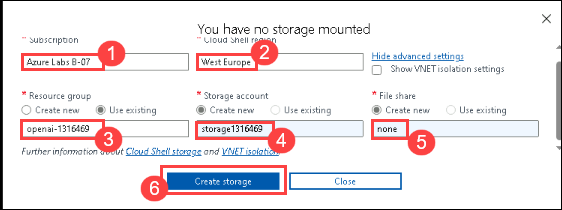
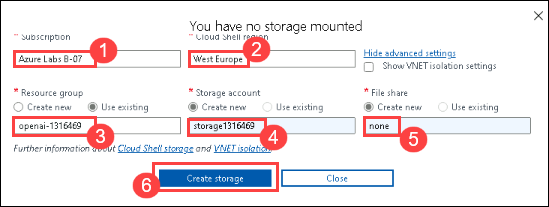
updated

diff --git a/Instructions/Labs/hol-integrate-openai-with-app-lab2.md b/Instructions/Labs/hol-integrate-openai-with-app-lab2.md
@@ -20,25 +20,21 @@ In this lab, you will complete the following tasks:
 
 To use the Azure OpenAI API, you must first deploy a model to use through the **Azure OpenAI Studio**. Once deployed, we will reference that model in our app.
 
-1. In the **Azure portal**, search for **OpenAI** and select **Azure OpenAI**.
+1. Open a new tab, and navigate to the **Azure portal** by using **https://portal.azure.com/#home**, search for **OpenAI** and select **Azure OpenAI**.
 
    ![](../media/openai8.png)
 
-2. On **Azure AI Services | Azure OpenAI** blade, select **OpenAI-Lab02-<inject key="DeploymentID" enableCopy="false"></inject>**
+2. On **Azure AI Services | Azure OpenAI** blade, select **OpenAI-Lab01-<inject key="DeploymentID" enableCopy="false"></inject>**
 
-   ![](../media/OpenAI_select.png)
+   ![](../media/azureaiservices.png)
 
 3. In the Azure OpenAI resource pane, click on **Go to Azure OpenAI Studio** it will navigate to **Azure AI Studio**.
 
-   ![](../media/openai_studio1.png)
+   ![](../media/gotoresources.png)
 
-4. In **Welcome to Azure OpenAI Service** page, click on **Create new deployment**.
-
-   ![](../media/openai-lab01_t2_s2.png "Create a new deployment")
-
-5. In the **Deployments** page, click on **+ Create new deployment**.
+5. In the **Deployments (1)** page, click on **+ Create new deployment (2)**.
     
-   ![](../media/openai-lab01_t2_s3.png "Create a new deployment")
+   ![](../media/createanewdeployment.png "Create a new deployment")
 
 7. Within the **Deploy model** pop-up interface, enter the following details:
     - **Select a Model**: gpt-35-turbo-16k (1)
@@ -46,12 +42,17 @@ To use the Azure OpenAI API, you must first deploy a model to use through the **
        >**Note** : if the 16k model isn't available, choose **gpt-35-turbo**
        
     - **Model version**: Auto-update to default (2)
+    
     - **Deployment type**: Standard (3)
+    
     - **Deployment name**: text-turbo (4)
+    
     - Click on **Advanced Settings** (5)
     - **Tokens per Minute Rate Limit (thousands)**: 10K (6)
+    
     - **Enable dynamic quota**: Enabled (7)
-    - Click on **Create** (7)
+    
+    - Click on **Create** (8)
   
       ![](../media/x991.png)
 
@@ -61,35 +62,44 @@ To use the Azure OpenAI API, you must first deploy a model to use through the **
    
    > **Note**: Each Azure OpenAI model is optimized for a different balance of capabilities and performance. We'll use the **3.5 Turbo** model series in the **GPT-3** model family in this exercise, which is highly capable of language understanding. This exercise only uses a single model, however, deployment and usage of other models you deploy will work in the same way.
 
-#### Validation
+    <validation step="4799e712-2f03-4a88-9456-fca39aea25d0" />
 
-<validation step="4799e712-2f03-4a88-9456-fca39aea25d0" />
+    > **Congratulations** on completing the task! Now, it's time to validate it. Here are the steps:
+       
+      - If you receive a success message, you can proceed to the next task.
+      - If not, carefully read the error message and retry the step, following the instructions in the lab guide.
+      - If you need any assistance, please contact us at labs-support@spektrasystems.com. We are available 24/7 to help you out.
 
 ### Task 2: Set up an application in Cloud Shell
 
 To show how to integrate with an Azure OpenAI model, we'll use a short command-line application that runs in Cloud Shell on Azure. Open up a new browser tab to work with Cloud Shell.
 
-1. In the [Azure portal](https://portal.azure.com?azure-portal=true), select the **[>_]** (*Cloud Shell*) button at the top of the page to the right of the search box. A Cloud Shell pane will open at the bottom of the portal.
+1. Open a new tab, and navigate to the [Azure portal](https://portal.azure.com?azure-portal=true), select the **[>_]** (*Cloud Shell*) button at the top of the page to the right of the search box. A Cloud Shell pane will open at the bottom of the portal.
 
-    ![Screenshot of starting Cloud Shell by clicking on the icon to the right of the top search box.](../media/cloudshell-launch-portal.png#lightbox)
+    ![Screenshot of starting Cloud Shell by clicking on the icon to the right of the top search box.](../media/cloudshell-launch-portal.png)
 
 2. The first time you open the Cloud Shell, you may be prompted to choose the type of shell you want to use (*Bash* or *PowerShell*). Select **Bash**. If you don't see this option, skip the step.  
 
-3. If you're prompted to create storage for your Cloud Shell, ensure your subscription is specified and then select **Advanced Settings**.
+3. If you're prompted to create storage for your Cloud Shell, ensure your subscription is specified and then select **Show advanced Settings**.
 
    ![](../media/openai-labs_createstoragepane.png "Create storage advanced settings")
 
 4. Within the **Advanced settings** pane, enter the following details:
     - **Subscription**: Default- Choose the only existing subscription assigned for this lab (1).
+    
     - **CloudShell region**: <inject key="Region" enableCopy="false" /> (2)
+    
     - **Resource group**: Select **Use existing**.(3)
       - openai-<inject key="DeploymentID" enableCopy="false"></inject>
+    
     - **Storage account**: Select **Create new**.(4)
       - storage<inject key="DeploymentID" enableCopy="false"></inject>
+    
     - **File share**: Create a new file share named **none** (5)
-    - Click **Create Storage** (6)
+    
+    - Click **Create storage** (6)
 
-    ![](../media/storageaccreate2.png "Create storage advanced settings")
+        ![](../media/storageaccreate2.png "Create storage advanced settings")
 
 5. Make sure the type of shell indicated on the top left of the Cloud Shell pane is switched to *Bash*. If it's *PowerShell*, switch to *Bash* by using the drop-down menu.
 
@@ -108,17 +118,21 @@ To show how to integrate with an Azure OpenAI model, we'll use a short command-l
    cd azure-openai/Labfiles/02-azure-openai-api
     ```
 
-Applications for both C# and Python have been provided, as well as a sample text file you'll use to test the summarization. Both apps feature the same functionality.
+    >**Note:** Applications for both C# and Python have been provided, as well as a sample text file you'll use to test the summarization. Both apps feature the same functionality.
 
-Open the built-in code editor, and observe the text file that you'll be summarizing with your model located at `text-files/sample-text.txt`. Use the following command to open the lab files in the code editor.
+9. Open the built-in code editor, and observe the text file that you'll be summarizing with your model located at `text-files/sample-text.txt`. Use the following command to open the lab files in the code editor.
 
-```bash
-code .
-```
+    ```bash
+    code .
+    ```
 
-#### Validation
+    <validation step="2e8dadd1-f827-4597-8d99-c814ec85fbab" />
 
-<validation step="2e8dadd1-f827-4597-8d99-c814ec85fbab" />
+    > **Congratulations** on completing the task! Now, it's time to validate it. Here are the steps:
+       
+      - If you receive a success message, you can proceed to the next task.
+      - If not, carefully read the error message and retry the step, following the instructions in the lab guide.
+      - If you need any assistance, please contact us at labs-support@spektrasystems.com. We are available 24/7 to help you out.
 
 ### Task 3: Configure your application
 
@@ -126,14 +140,21 @@ For this exercise, you'll complete some key parts of the application to enable u
 
 1. In the code editor, expand the **CSharp** or **Python** folder, depending on your language preference.
 
-2. Open the configuration file for your language
+1. Open the configuration file for your language
 
     - C#: `appsettings.json`
     - Python: `.env`
-    
-3. Update the configuration values to include the **endpoint** and **key** from the Azure OpenAI resource you created, as well as the model name that you deployed, `text-turbo`. Then save the file by right-clicking on the file from the left pane and hit **Save**
 
-4. Navigate to the folder for your preferred language and install the necessary packages
+1. Update the configuration values to include:
+    
+    - The  **endpoint** and a **key** from the Azure OpenAI resource you created (Which you copied in the previous task alternatively it is available on the **Keys and Endpoint** page for your Azure OpenAI resource in the Azure portal)
+    
+    - The **deployment name** you specified for your model deployment (available in the **Deployments** page in Azure OpenAI Studio that is **text-turbo**).
+
+    - Press **Ctrl + S** on your keyboard to save the file.
+
+
+1. Navigate to the folder for your preferred language and install the necessary packages
 
     **C#** : 
 
@@ -150,7 +171,7 @@ For this exercise, you'll complete some key parts of the application to enable u
     pip install openai==1.13.3
     ```
 
-5. Navigate to your preferred language folder, select the code file, and add the necessary libraries.
+1. Navigate to your preferred language folder, select the code file, and add the necessary libraries.
 
     **C#**: Program.cs
 
@@ -166,7 +187,9 @@ For this exercise, you'll complete some key parts of the application to enable u
     from openai import AzureOpenAI
     ```
 
-6.  In the application code for your language, replace the comment ***Initialize the Azure OpenAI client...*** with the following code to initialize the client and define our system message.
+1. Press **Ctrl + S** on your keyboard to save the file.
+
+1.  In the application code for your language, replace the comment ***Initialize the Azure OpenAI client...*** with the following code to initialize the client and define our system message.
 
     **C#**: Program.cs
 
@@ -197,8 +220,10 @@ For this exercise, you'll complete some key parts of the application to enable u
     ```
 
       >**Note**: Make sure to indent the code by eliminating any extra white spaces after pasting it into the code editor.
+
+1. Press **Ctrl + S** on your keyboard to save the file.
     
-7. Replace the comment ***Add code to send request...*** with the necessary code for building the request; specifying the various parameters for your model such as `messages` and `temperature`.
+1. Replace the comment ***Add code to send request...*** with the necessary code for building the request; specifying the various parameters for your model such as `messages` and `temperature`.
 
     **C#**: Program.cs
 
@@ -245,7 +270,7 @@ For this exercise, you'll complete some key parts of the application to enable u
     print("Response: " + generated_text + "\n")
     ```
 
-7. To save the changes made to the file, right-click on the file from the left pane in the code window and hit **Save**
+1. Press **Ctrl + S** on your keyboard to save the file.
 
    >**Note:** Make sure to indent the code by eliminating any extra white spaces after pasting it into the code editor.
 

diff --git a/Instructions/Labs/hol-get-started-with-openai-lab1.md b/Instructions/Labs/hol-get-started-with-openai-lab1.md
@@ -23,7 +23,7 @@ Before you can use Azure OpenAI models, you must provision an Azure OpenAI resou
 
    ![](../media/openai8.png)
 
-2. On **Azure AI Services | Azure OpenAI** blade, click on **Create**.
+2. On **Azure AI Services | Azure OpenAI** blade, click on **+ Create**.
 
    ![](../media/openai_create1.png)
 
@@ -35,15 +35,27 @@ Before you can use Azure OpenAI models, you must provision an Azure OpenAI resou
     - **Name**: OpenAI-Lab01-<inject key="DeploymentID" enableCopy="false"></inject>
     - **Pricing tier**: Standard S0
   
-   ![](../media/openai-lab01_01.png "Create Azure OpenAI resource")
+      ![](../media/openai-lab01_01.png "Create Azure OpenAI resource")
 
 4. Click on **Next** twice and click on **Create**.
 
 5. Wait for deployment to complete. Then go to the deployed Azure OpenAI resource in the Azure portal.
 
-#### Validation
+6. To capture the Keys and Endpoints values, on **openai-<inject key="DeploymentID" enableCopy="false"></inject>** blade:
+      - Select **Keys and Endpoint (1)** under **Resource Management**.
+      - Click on **Show Keys (2)**.
+      - Copy **Key 1 (3)** and ensure to paste it in a text editor such as notepad for future reference.
+      - Finally copy the **Endpoint (4)** API URL by clicking on copy to clipboard. Paste it in a text editor such as notepad for later use.
 
-<validation step="4b6b5a36-2650-4f80-a408-879c57cf61a2" />
+        ![](../media/keysendpoint.png "Keys and Endpoints")
+
+   <validation step="4b6b5a36-2650-4f80-a408-879c57cf61a2" />
+
+   > **Congratulations** on completing the task! Now, it's time to validate it. Here are the steps:
+       
+      - If you receive a success message, you can proceed to the next task.
+      - If not, carefully read the error message and retry the step, following the instructions in the lab guide.
+      - If you need any assistance, please contact us at labs-support@spektrasystems.com. We are available 24/7 to help you out.
 
 ### Task 2: Deploy a model
 
@@ -53,13 +65,13 @@ Azure OpenAI provides a web-based portal named **Azure OpenAI Studio**, that you
 
    ![](../media/openai8.png)
 
-2. On **Azure AI Services | Azure OpenAI** blade, select **OpenAI-Lab01-<inject key="Deployment-id" enableCopy="false"></inject>**
+2. On **Azure AI Services | Azure OpenAI** blade, select **OpenAI-Lab01-<inject key="DeploymentID" enableCopy="false"></inject>**
 
    ![](../media/OpenAI_select.png)
 
 3. In the Azure OpenAI resource pane, click on **Go to Azure OpenAI Studio** it will navaigate to **Azure AI Studio**.
 
-   ![](../media/openai_studio.png)
+   ![](../media/gotoresources.png)
    
 4. In **Welcome to Azure OpenAI Service** page, click on **Create new deployment**.
 
@@ -87,25 +99,30 @@ Azure OpenAI provides a web-based portal named **Azure OpenAI Studio**, that you
 7. This will deploy a model which you will be playing around with as you proceed.
 
    > **Note**: You can ignore any error related to assignment of roles to view the quota limits. 
+   
    > **Note**: Azure OpenAI includes multiple models, each optimized for a different balance of capabilities and performance. In this exercise, you'll use the **GPT-35-Turbo** model, which is a good general model for summarizing and generating natural language and code. For more information about the available models in Azure OpenAI, see [Models](https://learn.microsoft.com/azure/cognitive-services/openai/concepts/models) in the Azure OpenAI documentation.
 
-#### Validation
+   <validation step="d9a504d6-e0be-4fa9-a4ed-6ead18a10e03" />
 
-<validation step="d9a504d6-e0be-4fa9-a4ed-6ead18a10e03" />
+   > **Congratulations** on completing the task! Now, it's time to validate it. Here are the steps:
+       
+      - If you receive a success message, you can proceed to the next task.
+      - If not, carefully read the error message and retry the step, following the instructions in the lab guide.
+      - If you need any assistance, please contact us at labs-support@spektrasystems.com. We are available 24/7 to help you out.
 
 ### Task 3: Explore a model in the Completions playground
 
 *Playgrounds* are useful interfaces in Azure OpenAI Studio that you can use to experiment with your deployed models without needing to develop your own client application.
 
 1. In Azure OpenAI Studio, in the left pane under **Playground**, select **Completions**.
+
 2. In the **Completions** page, ensure your **my-gpt-model** deployment is selected and then in the **Examples** list, select **Generate a quiz**.
 
-    The summarize text sample consists of a *prompt* that provides some text to tell the model what kind of response is required and include some contextual information.
+   >**Note:** The summarize text sample consists of a *prompt* that provides some text to tell the model what kind of response is required and include some contextual information.
 
 3. At the bottom of the page, note the number of *tokens* detected in the text. Tokens are the basic units of a prompt - essentially words or word-parts in the text.
-4. Use the **Generate** button to submit the prompt to the model and retrieve a response.
 
-    The response consists of a quiz based on the example in the prompt.
+4. Use the **Generate** button to submit the prompt to the model and retrieve a response. The response consists of a quiz based on the example in the prompt.
 
     >**Note**: You can use the **Regenerate** button to resubmit the prompt(new changes have been made), and note that the response may vary 
     from the original one. A generative AI model can produce new language each time it's called.
@@ -117,17 +134,21 @@ Azure OpenAI provides a web-based portal named **Azure OpenAI Studio**, that you
 The *Chat* playground provides a chatbot interface for GPT 3.5 and higher models. It uses the *ChatCompletions* API rather than the older *Completions* API.
 
 1. In the **Playground** section, select the **Chat** page, and ensure that the **my-gpt-model** model is selected in the configuration pane.
+
 2. In the **Setup** section, in the **System message** box, replace the current text with the following statement: `The system is an AI teacher that helps people learn about AI`.
 
-3. Below the **System message** box, click on **+Add**, and enter the following message and response in the designated boxes:
+3. Below the **System message** box, click on **+ Add**, and enter the following message and response in the designated boxes:
 
     - **User**: `What are different types of artificial intelligence?`
+    
     - **Assistant**: `There are three main types of artificial intelligence: Narrow or Weak AI (such as virtual assistants like Siri or Alexa, image recognition software, and spam filters), General or Strong AI (AI designed to be as intelligent as a human being. This type of AI does not currently exist and is purely theoretical), and Artificial Superintelligence (AI that is more intelligent than any human being and can perform tasks that are beyond human comprehension. This type of AI is also purely theoretical and has not yet been developed).`
 
-    > **Note**: Few-shot examples are used to provide the model with examples of the types of responses that are expected. The model will attempt to reflect the tone and style of the examples in its own responses.
+      >**Note**: Few-shot examples are used to provide the model with examples of the types of responses that are expected. The model will attempt to reflect the tone and style of the examples in its own responses.
 
 4. Save the changes by clicking on **Apply Changes** and subsequently click on **Continue** to start a new session and set the behavioral context of the chat system.
+
 5. In the query box at the bottom of the page, enter the text `What is artificial intelligence?`
+
 6. Use the **Send** button to submit the message and view the response.
 
     > **Note**: You may receive a response that the API deployment is not yet ready. If so, wait for a few minutes and try again.
@@ -170,9 +191,12 @@ You can use the prompt and parameters to maximize the likelihood of generating t
 
 In addition to generating natural language responses, you can use GPT models to generate code.
 
-1. In the **Setup** pane, select the **Empty Example** template to reset the system message.
-2. Enter the system message: `You are a Python developer.` and save the changes by clicking on Apply Changes.
+1. In the **Setup** pane, select the **Empty Example** template to reset the system message, and select **Continue**.
+
+2. Enter the system message: `You are a Python developer.` save the changes by clicking on Apply Changes, and click on **Continue**.
+
 3. In the **Chat session** pane, select **Clear chat** to clear the chat history and start a new session.
+
 4. Submit the following user message:
 
     ```

diff --git a/Instructions/Labs/hol-use-your-own-data-lab1.md b/Instructions/Labs/hol-use-your-own-data-lab1.md
@@ -32,9 +32,9 @@ Before you can use Azure OpenAI models, you must provision an Azure OpenAI resou
 3. Create an **Azure OpenAI** resource with the following settings:
    
     - **Subscription**: Default - Pre-assigned subscription.
-    - **Resource group**: openai-<inject key="DeploymentID	" enableCopy="false"></inject>
+    - **Resource group**: openai-<inject key="DeploymentID" enableCopy="false"></inject>
     - **Region**: Select <inject key="Region" enableCopy="false" />
-    - **Name**: OpenAI-Lab06-<inject key="DeploymentID	" enableCopy="false"></inject>
+    - **Name**: OpenAI-Lab06-<inject key="DeploymentID" enableCopy="false"></inject>
     - **Pricing tier**: Standard S0
   
       ![](../media/openai-lab01_01.png "Create Azure OpenAI resource")
@@ -67,7 +67,7 @@ To chat with the Azure OpenAI, you must first deploy a model to use through the 
 
    ![](../media/openai8.png)
 
-2. On **Azure AI Services | Azure OpenAI** blade, select **OpenAI-Lab06-<inject key="DeploymentID	" enableCopy="false"></inject>**
+2. On **Azure AI Services | Azure OpenAI** blade, select **OpenAI-Lab06-<inject key="DeploymentID" enableCopy="false"></inject>**
 
    ![](../media/azureaiservices.png)
 
@@ -152,8 +152,8 @@ Next, add your data in the chat playground to see how it responds with your data
 3. Create a **Storage Account** resource with the following settings:
 
     - **Subscription**: Default - Pre-assigned subscription
-    - **Resource group**: openai-<inject key="DeploymentID	" enableCopy="false"></inject>
-    - **Storage account name**: storage<inject key="DeploymentID	" enableCopy="false"></inject>
+    - **Resource group**: openai-<inject key="DeploymentID" enableCopy="false"></inject>
+    - **Storage account name**: storage<inject key="DeploymentID" enableCopy="false"></inject>
     - **Region**: Select <inject key="Region" enableCopy="false" />
     - **Redundancy**: Locally-redundant storage (LRS)
 
@@ -196,8 +196,8 @@ Next, add your data in the chat playground to see how it responds with your data
 3. Create an **AI Search** resource with the following settings and click on **Review + create** and subsequenly click on **Create**
 
     - **Subscription**: Default - Pre-assigned subscription
-    - **Resource group**: **openai-<inject key="DeploymentID	" enableCopy="false"></inject>**
-    - **Service name**: **cognitive-search-<inject key="DeploymentID	" enableCopy="false"></inject>**
+    - **Resource group**: **openai-<inject key="DeploymentID" enableCopy="false"></inject>**
+    - **Service name**: **cognitive-search-<inject key="DeploymentID" enableCopy="false"></inject>**
     - **Location**: Select **<inject key="Region" enableCopy="false" />**
     - **Pricing tier**: Basic
 
@@ -205,7 +205,7 @@ Next, add your data in the chat playground to see how it responds with your data
 
 1. Wait until your search resource has been deployed. Select **Go to resources**.
 
-1. Navigate to the **cognitive-search-<inject key="DeploymentID	" enableCopy="false"></inject>** and in the overview page copy the URL and paste it in a text editor such as notepad for later use.
+1. Navigate to the **cognitive-search-<inject key="DeploymentID" enableCopy="false"></inject>** and in the overview page copy the URL and paste it in a text editor such as notepad for later use.
 
    ![](../media/x689.png)
 
@@ -402,7 +402,7 @@ Now that your app has been configured, run it to send your request to your model
     - **C#**: `dotnet run`
     - **Python**: `python ownData.py`
 
-    > **Tip**: You can use the **Maximize panel size** (**^**) icon in the terminal toolbar to see more of the console text.
+        > **Tip**: You can use the **Maximize panel size** (**^**) icon in the terminal toolbar to see more of the console text.
 
 2. Review the response to the prompt `Tell me about London`, which should include an answer as well as some details of the data used to ground the prompt, which was obtained from your search service.
 
